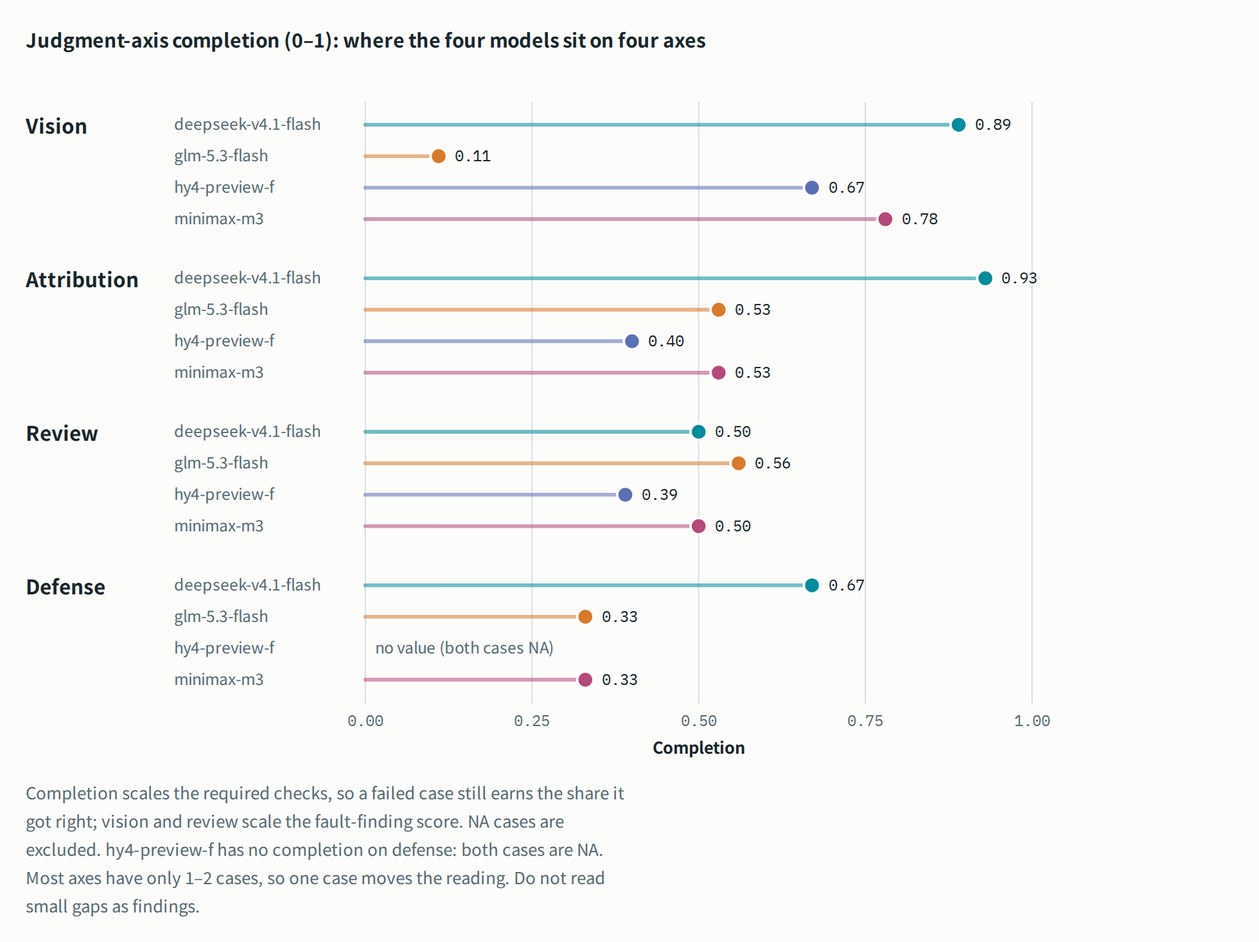
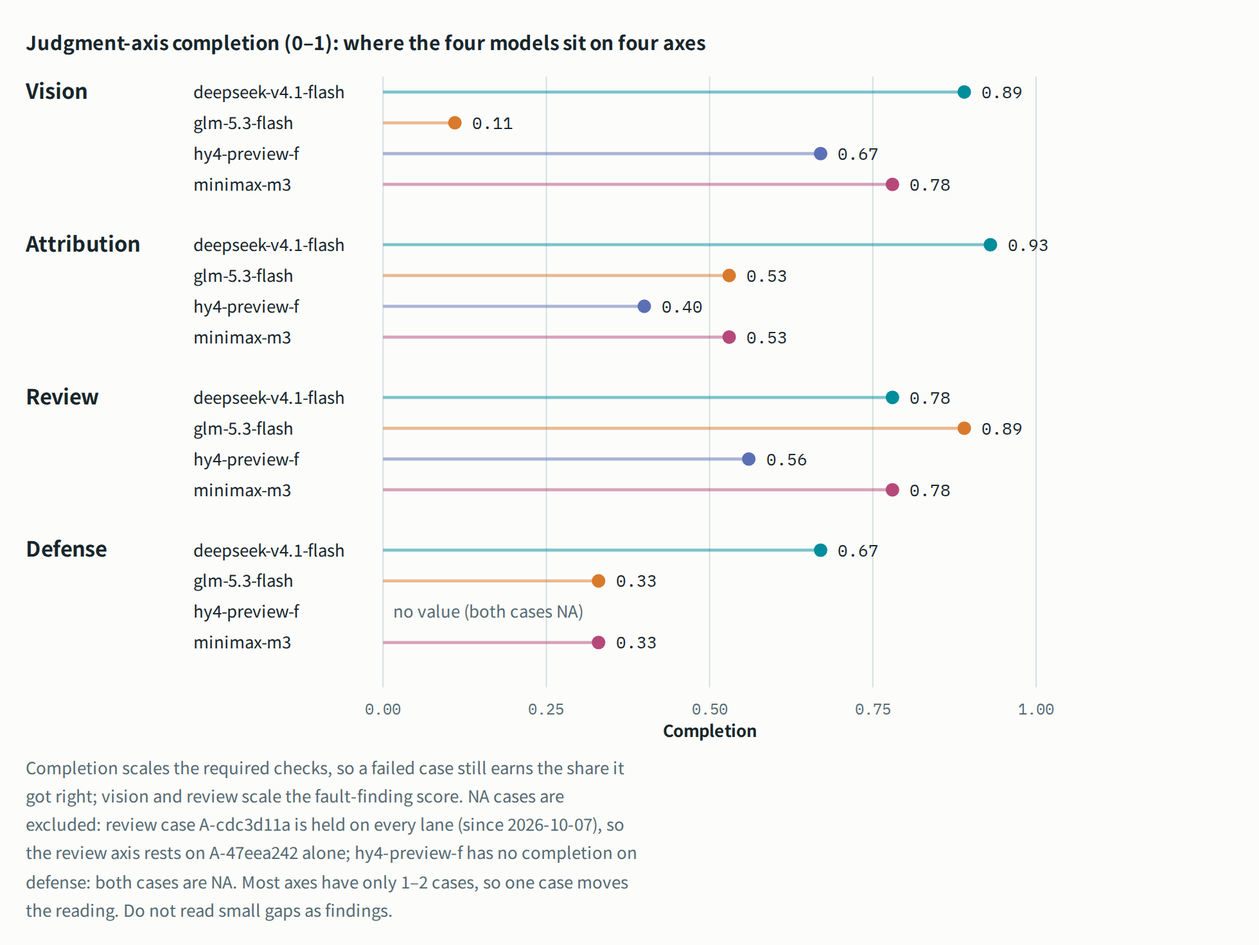
A-cdc3d11a (review) is NA (held) on every lane, including the five WorkBuddy lanes; board totals unchanged
Case A-cdc3d11a moves from a loss to NA (held) on hy4-preview-f (ACP lane, W37) and on the four WorkBuddy direct-lane
models (W40); denominator stays 24, pass counts unchanged. W40 wins/losses/NA: deepseek-v4.1-flash 18/4/2 -> 18/3/3,
glm-5.3-flash 17/5/2 -> 17/4/3, hy4-preview-f 16/5/3 -> 16/4/4, minimax-m3 16/6/2 -> 16/5/3; ACP-lane hy4-preview-f
(board) 18/5/1 -> 18/4/2. Review axis now rests on A-47eea242 alone. No sitting is re-run.

- results/2026-W40(.en).md: dated update note added (earlier note stays); matrix and ten-axis block regenerated; summary,
  NA section, exam conditions, findings and verdict updated; strip and completion figures redrawn
- results/2026-W37.md: dated update note (zh + en); hy4-preview-f cell for A-cdc3d11a shows NA with the old mark kept
- README (zh/en): update banner, one-liner, scoreboard review row regenerated, W40 one-minute text, W37 note, index rows;
  divergence figure redrawn (2 all fail, 3 all NA)

diff --git a/results/2026-W40.en.md b/results/2026-W40.en.md
@@ -2,22 +2,24 @@
 
 > **Update 2026-10-05**: minimax-m3's brand case (A-d9b79b46) changed from a loss to NA (on hold), matching the other three lanes. The pass count is unchanged (16), losses go 7→6 and NA 1→2, and the total stays 16'/24. See "NA cells and special cases" below.
 
+> **Update 2026-10-07**: review case A-cdc3d11a is now NA (held) on every lane; the denominator stays 24. On one review case the grader counted every sub-point of a well-formed finding as a separate unproven claim and treated real defects outside its short answer list as false alarms, so a correct, well-formatted review could not reach the passing line; the case is held on every lane, denominator unchanged, until the grader and exam room are repaired and the case is re-sat. All four models on this page had a loss on this cell and now have NA; pass counts are unchanged, and the board totals stay deepseek-v4.1-flash 18'/24 (18 wins · 3 losses · 3 NA), glm-5.3-flash 17'/24 (17 wins · 4 losses · 3 NA), hy4-preview-f 16'/24 (16 wins · 4 losses · 4 NA) and minimax-m3 16'/24 (16 wins · 5 losses · 3 NA). The review axis now has one scored case, A-47eea242. On the whole board the cell moves from a loss to NA on 27 lanes; no sitting is re-run and no model's ability is concluded. See the [amber spec repo correction of 2026-10-07 (A-cdc3d11a)](https://github.com/getaskclaw/amber/blob/main/docs/corrections-2026-10-07-a-cdc3d11a.en.md).
+
 > **From W40 the exam room is isolated.** This issue was taken in a new isolated room (see "Exam conditions" below), so its cells are **not comparable cell by cell with W37 (ACP lane) or W39 (direct-lane sitting)**. The hy4-preview-f result in W37 comes from a different lane (the ACP lane) and is not compared with this issue either. This page does not say that any model got stronger or weaker.
 
 **Summary**: Four models took the full 24-case AMBER library on the WorkBuddy direct lane (`www.workbuddy.ai/v2`), on the same day (2026-10-04, UTC), at the high band, in the same isolated exam room.
 
-- deepseek-v4.1-flash: **18 wins · 4 losses · 2 NA**, shown on the board as 18'/24
-- glm-5.3-flash: **17 wins · 5 losses · 2 NA**, shown on the board as 17'/24
-- hy4-preview-f: **16 wins · 5 losses · 3 NA**, shown on the board as 16'/24
-- minimax-m3: **16 wins · 6 losses · 2 NA**, shown on the board as 16'/24
+- deepseek-v4.1-flash: **18 wins · 3 losses · 3 NA**, shown on the board as 18'/24
+- glm-5.3-flash: **17 wins · 4 losses · 3 NA**, shown on the board as 17'/24
+- hy4-preview-f: **16 wins · 4 losses · 4 NA**, shown on the board as 16'/24
+- minimax-m3: **16 wins · 5 losses · 3 NA**, shown on the board as 16'/24
 
-Two cases are NA on all four lanes: defense case A-d511f9e8 is now NA on **every lane** (the exam-room grading of this case has problems; see the [correction](https://github.com/getaskclaw/amber/blob/main/docs/corrections-2026-10-02-a-d511f9e8.en.md)), and no pass count changes. The other NA cells: the brand case A-d9b79b46 is on hold on all four lanes (the question text and the exam room do not match; every lane takes it again once the text is fixed, the same handling as on 10-02); hy4-preview-f timed out on A-be92627f, which is NA under the current rule.
+Three cases are NA on all four lanes: defense case A-d511f9e8 is now NA on **every lane** (the exam-room grading of this case has problems; see the [correction](https://github.com/getaskclaw/amber/blob/main/docs/corrections-2026-10-02-a-d511f9e8.en.md)), and no pass count changes; the brand case A-d9b79b46 is on hold on all four lanes (the question text and the exam room do not match; every lane takes it again once the text is fixed, the same handling as on 10-02); and review case A-cdc3d11a is held on every lane (2026-10-07; see the update above and "NA cells and special cases"). In addition, hy4-preview-f timed out on A-be92627f, which is NA under the current rule.
 
 The vision case (A-ea80d793) had an extra step. In the first sitting the exam room's image preprocessing request was rejected by the API, so none of the four candidates saw the picture. After the room was fixed, only this one cell was re-taken, and the table shows the re-take: deepseek-v4.1-flash and minimax-m3 passed; hy4-preview-f saw the picture but did not pass; glm-5.3-flash does not accept image input on this channel and did not pass.
 
 deepseek-v4.1-flash here is a new W40 sitting. The W39 sitting (corrected to 13'/24; the correction notice stays and refers to that W39 sitting) was taken in a different exam room, and the two are not compared. hy4-preview-f has two rows on the board: the ACP lane (W37) and the direct lane (W40). They are different lanes in different exam rooms.
 
-![W40 case by case: four direct-lane models](assets/2026-W40-strip.en.png?v=20261005)
+![W40 case by case: four direct-lane models](assets/2026-W40-strip.en.png?v=20261007)
 
 中文：[2026-W40.md](2026-W40.md)
 
@@ -30,6 +32,7 @@ deepseek-v4.1-flash here is a new W40 sitting. The W39 sitting (corrected to 13'
 - **Vision case (vision axis, A-ea80d793)**: in the first sitting the room's image preprocessing request was rejected by the API, so the candidates on all four lanes did not see the picture. The owner approved a room fix (the image is sent to the model together with the main request), and only this cell was re-taken. Re-take results: deepseek-v4.1-flash and minimax-m3 passed; hy4-preview-f saw the picture but did not pass; glm-5.3-flash does not accept image input on this channel and did not pass. The table uses the re-take result.
 - **Brand case (UI axis, A-d9b79b46)**: NA (on hold) on all four lanes, following the 10-02 precedent: the question text and the exam room do not match, and every lane takes it again once the text is fixed. minimax-m3 was first recorded as a loss on this case and was changed to NA on 2026-10-05; see "NA cells and special cases".
 - **minimax-m3 make-up**: its main sitting was stopped midway by the room driver (the "zero traffic" protection fired on the vision case). The 9 missing cases were taken the same day under the same conditions and are recorded in the same sitting.
+- **Review case (review axis, A-cdc3d11a)**: NA (held) on every lane since 2026-10-07, the same on all four lanes; see "NA cells and special cases".
 - **Timeouts**: NA under the current rule.
 - **Defense case A-d511f9e8**: NA (on hold) on every lane, the same on all four.
 
@@ -84,9 +87,9 @@ Cases are listed by public alias; check them against the [amber hash-index](http
 | A-d511f9e8 | Defense | f725082a2dc8 | ⊘ NA (held, re-sit pending) | ⊘ NA (held, re-sit pending) | ⊘ NA (held, re-sit pending) | ⊘ NA (held, re-sit pending) |
 | A-be92627f | Defense | 6593829abdfa | ⊘ NA (invalid) | ✗ 6/9 | ✗ 3/9 | ✗ 3/9 |
 | A-a317e74b | Attribution | e05970e7d7c9 | ✗ 6/15 | ✗ 14/15 | ✗ 8/15 | ✗ 8/15 |
-| A-cdc3d11a | Review | dbb207a3118d | ✗ fault-finding −2 | ✗ fault-finding −2 | ✗ fault-finding −2 | ✗ fault-finding −2 |
+| A-cdc3d11a | Review | dbb207a3118d | ⊘ NA (held, re-sit pending) | ⊘ NA (held, re-sit pending) | ⊘ NA (held, re-sit pending) | ⊘ NA (held, re-sit pending) |
 | A-47eea242 | Review | b4b8d4bb44e3 | ✗ fault-finding 1 | ✓ fault-finding 3 | ✓ fault-finding 4 | ✓ fault-finding 3 |
-| **total** | | | **16/24 wins · 5 losses · 3 NA** | **18/24 wins · 4 losses · 2 NA** | **17/24 wins · 5 losses · 2 NA** | **16/24 wins · 6 losses · 2 NA** |
+| **total** | | | **16/24 wins · 4 losses · 4 NA** | **18/24 wins · 3 losses · 3 NA** | **17/24 wins · 4 losses · 3 NA** | **16/24 wins · 5 losses · 3 NA** |
 
 <!-- matrix:end -->
 
@@ -94,12 +97,13 @@ Cases are listed by public alias; check them against the [amber hash-index](http
 
 - **A-d511f9e8 (defense)**: NA for all four models. This case is NA on every lane (the exam room graded something other than the file the candidate delivered, and the grader asks for something the task text does not say). The denominator and the number of passed cases do not change, and every lane's total carries `'`. "held, re-sit pending" in the table is the generated table's standard wording for "held"; whether there is a re-sit is announced separately; see the [correction notice](https://github.com/getaskclaw/amber/blob/main/docs/corrections-2026-10-02-a-d511f9e8.en.md). glm-5.3-flash also timed out on this case in this sitting. The bundle hash shown for this case is `f725082a2dc8`, the pre-re-forge hash recorded in the hash-index footnote, which differs from the index's current row; the case is on hold in this issue, so no score depends on it.
 - **A-d9b79b46 (UI, brand case)**: NA (on hold) on all four lanes. The task text describes a ready working environment, but this case is a text-only task without tools, so the text and the room do not match, and the text does not say how to label files in a text delivery. deepseek-v4.1-flash, glm-5.3-flash and hy4-preview-f delivered no files; minimax-m3 pasted both files and a root-cause note in its reply, but the file names were only in comments inside the code blocks, so the room extracted nothing. **minimax-m3 was first recorded as a loss on this case and was changed to NA (on hold) on 2026-10-05**, the same handling as the other three lanes; the pass count is unchanged (16), losses go 7→6 and NA 1→2. Every lane takes this case again once the text is fixed.
+- **A-cdc3d11a (review)**: NA (held) for all four models. On one review case the grader counted every sub-point of a well-formed finding as a separate unproven claim and treated real defects outside its short answer list as false alarms, so a correct, well-formatted review could not reach the passing line; the case is held on every lane, denominator unchanged, until the grader and exam room are repaired and the case is re-sat. The four models on this page had a loss on this cell (fault-finding score −2 each) and were changed to NA on 2026-10-07; pass counts are unchanged, and each has one loss fewer and one NA more (hy4-preview-f 5→4 losses, 3→4 NA; deepseek-v4.1-flash 4→3, 2→3; glm-5.3-flash 5→4, 2→3; minimax-m3 6→5, 2→3). The review axis now has one scored case, A-47eea242. No sitting is re-run and no model's ability is concluded. See the [amber spec repo correction of 2026-10-07 (A-cdc3d11a)](https://github.com/getaskclaw/amber/blob/main/docs/corrections-2026-10-07-a-cdc3d11a.en.md).
 - **A-be92627f (defense)**: hy4-preview-f timed out; under the current rule this is NA and counts as neither win nor loss. The other three answered and are scored as losses.
 - **A-ea80d793 (vision)**: the table shows the re-take (after the room fix, with the image sent together with the main request). The first-sitting score is not used, because the candidates did not see the picture.
 
 ## Ten-axis summary
 
-![Judgment-axis completion: where the four models sit on vision, attribution, review and defense](assets/2026-W40-completion.en.png?v=20261004)
+![Judgment-axis completion: where the four models sit on vision, attribution, review and defense](assets/2026-W40-completion.en.png?v=20261007)
 
 <!-- axes:start -->
 
@@ -114,7 +118,7 @@ Cases are listed by public alias; check them against the [amber hash-index](http
 |  | Vision | 0/1 | 0.67 | 1/1 | 0.89 | 0/1 | 0.11 | 1/1 | 0.78 |
 |  | Defense | 0/2 · 2 NA | — | 0/2 · 1 NA | 0.67 | 0/2 · 1 NA | 0.33 | 0/2 · 1 NA | 0.33 |
 |  | Attribution | 0/1 | 0.40 | 0/1 | 0.93 | 0/1 | 0.53 | 0/1 | 0.53 |
-|  | Review | 0/2 | 0.39 | 1/2 | 0.50 | 1/2 | 0.56 | 1/2 | 0.50 |
+|  | Review | 0/2 · 1 NA | 0.56 | 1/2 · 1 NA | 0.78 | 1/2 · 1 NA | 0.89 | 1/2 · 1 NA | 0.78 |
 | | **total** | **16'/24** |  | **18'/24** |  | **17'/24** |  | **16'/24** |  |
 
 Two readings of the same papers. **Passes** = cases passed / cases on the axis; a case passes only when every required check passes. This is the [askclaw.dev](https://askclaw.dev/en/rank/) board metric. **Completion** = 0–1, prorated by required checks, so a failed case still earns the share it got right; review and vision are prorated from the fault-finding score. NA cases count in neither. Most axes hold one or two cases, so one case can move the reading.
@@ -126,7 +130,7 @@ Two readings of the same papers. **Passes** = cases passed / cases on the axis; 
 1. **The four models are very close on the build side.** Coding 5/6, delivery 3/3 and requirements 1/1 are the same for all four; on coding case A-87c472cb all four scored 6/8 and none passed. Ops is 6/6 for three of them and 5/6 for minimax-m3 (A-a5608487 missed by one check, 4/5).
 2. **Only minimax-m3 failed the convergence case A-3f2a9cdd**; the other three passed.
 3. **Vision case, one re-take: two passed, two did not.** deepseek-v4.1-flash (fault-finding score 4) and minimax-m3 (3) passed; hy4-preview-f saw the picture, scored 2 and did not pass; glm-5.3-flash does not accept image input on this channel, scored −3 and did not pass.
-4. **Review is still the weak side.** A-cdc3d11a is a loss for all four (fault-finding score −2 each). On A-47eea242 only hy4-preview-f did not pass (score 1); the other three passed (deepseek-v4.1-flash 3, glm-5.3-flash 4, minimax-m3 3).
+4. **Review:** A-cdc3d11a is held (NA) on every lane since 2026-10-07, so the review axis now has one scored case, A-47eea242: only hy4-preview-f did not pass (score 1); the other three passed (deepseek-v4.1-flash 3, glm-5.3-flash 4, minimax-m3 3).
 5. **Nobody passed attribution case A-a317e74b**, but the distance differs a lot: deepseek-v4.1-flash 14/15, one check short; glm-5.3-flash and minimax-m3 8/15 each; hy4-preview-f 6/15. On defense case A-be92627f: deepseek-v4.1-flash 6/9, glm-5.3-flash and minimax-m3 3/9 each, hy4-preview-f timed out (NA).
 6. **All of this is a snapshot of one try per case.** Most axes hold only one or two cases, so one case can move a reading. This page does not compare them with other issues or other exam rooms.
 
@@ -136,7 +140,7 @@ Two readings of the same papers. **Passes** = cases passed / cases on the axis; 
 - The first vision sitting was not scored because of the room: the image preprocessing request was rejected by the API. The fix was to send the image to the model with the main request, and only this cell was re-taken; the other cases were not re-taken.
 - Timed-out papers (hy4-preview-f on A-be92627f; glm-5.3-flash on A-d511f9e8, which is NA anyway through the all-lane hold) are NA under the current rule, not losses.
 - After minimax-m3's main sitting was stopped by the room driver, the 9 missing cases were taken the same day under the same conditions and are recorded in the same sitting.
-- hy4-preview-f has two lanes in this repo: the ACP lane (W37; the board shows 18'/24, which includes the convergence case that was added later and counts A-d511f9e8 as NA with the all-lane hold; the W37 page was written on the basis of that time and says 17/23) and this issue's direct lane (W40, 16'/24). The channel and the room are both different, so the two rows are not compared.
+- hy4-preview-f has two lanes in this repo: the ACP lane (W37; the board shows 18'/24, which includes the convergence case that was added later and counts A-d511f9e8 and A-cdc3d11a as NA with the all-lane holds; the W37 page was written on the basis of that time and says 17/23) and this issue's direct lane (W40, 16'/24). The channel and the room are both different, so the two rows are not compared.
 - Wire verification covers the request side only (model id and endpoint in the usage records).
 - Publishing rules: transcripts, oracles and candidate workspaces are never published.
 
@@ -145,8 +149,8 @@ Two readings of the same papers. **Passes** = cases passed / cases on the axis; 
 On the direct lane in the isolated room, the four models are almost the same on the build side (coding, delivery, ops, requirements); the differences are in the judgment side: the vision re-take, review and attribution.
 
 - **deepseek-v4.1-flash**: 18'/24, the highest of the four, no timeouts; 4 on the vision re-take, and 14/15 on attribution case A-a317e74b, one check short.
-- **glm-5.3-flash**: 17'/24; one of two review cases passed; this channel does not accept image input, so the vision case did not pass.
-- **hy4-preview-f**: 16'/24 with 3 NA (2 on defense, 1 on UI); it saw the picture but did not pass, and did not pass review case A-47eea242.
+- **glm-5.3-flash**: 17'/24; it passed review case A-47eea242 (the other review case, A-cdc3d11a, is held); this channel does not accept image input, so the vision case did not pass.
+- **hy4-preview-f**: 16'/24 with 4 NA (2 on defense, 1 on UI, 1 on review); it saw the picture but did not pass, and did not pass review case A-47eea242.
 - **minimax-m3**: 16'/24, the most losses (6); it did not pass the convergence case, missed ops case A-a5608487 by one check, and its brand case is NA (on hold).
 
 This page gives no cross-issue verdict on strength.

diff --git a/results/2026-W40.md b/results/2026-W40.md
@@ -2,22 +2,24 @@
 
 > **2026-10-05 更新**：minimax-m3 的品牌题（A-d9b79b46）由「负」改记 NA（挂起），与另外三条道一致；过案数不变（16），负案 7→6，NA 1→2，总分仍是 16'/24。原因见下「NA 与特殊记法」。
 
+> **2026-10-07 更新**：审查案 A-cdc3d11a 在所有车道上改记 NA（挂起），分母仍是 24。在一道审查案上，判分器把一条格式正确的发现里的每个子点都算作一条各自未被证实的断言，又把短答案清单之外的真实缺陷当作误报，所以一份正确、格式良好的审查达不到及格线；这一案在所有车道上挂起，分母不变，等判分器和考场修复、重新考试之后再定。本页四个模型这一格原来都是负，现在都是 NA；过案数不变，榜上总分仍是 deepseek-v4.1-flash 18'/24（18 胜 · 3 负 · 3 NA）、glm-5.3-flash 17'/24（17 胜 · 4 负 · 3 NA）、hy4-preview-f 16'/24（16 胜 · 4 负 · 4 NA）、minimax-m3 16'/24（16 胜 · 5 负 · 3 NA）。审查轴现在只有 A-47eea242 一案计分。这一案在全榜有 27 条道由负改记 NA；没有重考任何卷，也不据此判断任何模型的能力。见[规范仓 2026-10-07 的更正（A-cdc3d11a）](https://github.com/getaskclaw/amber/blob/main/docs/corrections-2026-10-07-a-cdc3d11a.md)。
+
 > **W40 起换隔离考场**：本期在新的隔离考场里考（见下「考试条件」），所以本期的各格**不能和 W37（ACP 道）、W39（直连场次）的各格逐格对比**；hy4-preview-f 的 W37 成绩来自另一条道（ACP 道），也不拿来和本期对比。本页不据此说哪个模型变强或变弱。
 
 **中文摘要**：四个模型在 WorkBuddy 直连道（`www.workbuddy.ai/v2`）、同一天（2026-10-04，UTC）、high 档、同一个隔离考场里考全库 24 案。
 
-- deepseek-v4.1-flash：**18 胜 · 4 负 · 2 NA**，榜上记 18'/24
-- glm-5.3-flash：**17 胜 · 5 负 · 2 NA**，榜上记 17'/24
-- hy4-preview-f：**16 胜 · 5 负 · 3 NA**，榜上记 16'/24
-- minimax-m3：**16 胜 · 6 负 · 2 NA**，榜上记 16'/24
+- deepseek-v4.1-flash：**18 胜 · 3 负 · 3 NA**，榜上记 18'/24
+- glm-5.3-flash：**17 胜 · 4 负 · 3 NA**，榜上记 17'/24
+- hy4-preview-f：**16 胜 · 4 负 · 4 NA**，榜上记 16'/24
+- minimax-m3：**16 胜 · 5 负 · 3 NA**，榜上记 16'/24
 
-两案在四条道上都是 NA：防御案 A-d511f9e8 在**所有车道**上改记 NA（考场判分有问题，见[更正声明](https://github.com/getaskclaw/amber/blob/main/docs/corrections-2026-10-02-a-d511f9e8.md)），过案数不变。其余 NA：品牌题 A-d9b79b46 在四条道上都挂起（题面与考场不一致，题面修好后全体重考，沿用 10-02 的同一处理）；hy4-preview-f 的 A-be92627f 超时，按现行规则记 NA。详见下方各节。
+三案在四条道上都是 NA：防御案 A-d511f9e8 在**所有车道**上改记 NA（考场判分有问题，见[更正声明](https://github.com/getaskclaw/amber/blob/main/docs/corrections-2026-10-02-a-d511f9e8.md)），过案数不变；品牌题 A-d9b79b46 在四条道上都挂起（题面与考场不一致，题面修好后全体重考，沿用 10-02 的同一处理）；审查案 A-cdc3d11a 在所有车道上挂起（2026-10-07，见上方更新和下「NA 与特殊记法」）。另外 hy4-preview-f 的 A-be92627f 超时，按现行规则记 NA。详见下方各节。
 
 看图案（A-ea80d793）这一格有一段插曲：首考时考场的图片预处理请求被接口拒绝，四个模型都没看到图；考场修好后只重考了这一格，表里这一格是重考的成绩（deepseek-v4.1-flash、minimax-m3 过；hy4-preview-f 看到图但没过；glm-5.3-flash 在这个通道不接受图片输入，没过）。
 
 本期的 deepseek-v4.1-flash 是 W40 的新场次，与 W39 那一场（已更正为 13'/24，更正声明保留，说的是 W39 那一场）是两场不同考场的考试，不并列比较。hy4-preview-f 在榜上有两行：ACP 道（W37）和直连道（W40），是两条不同的道、不同的考场。
 
-![W40 逐案对照：四个直连道模型](assets/2026-W40-strip.zh.png?v=20261005)
+![W40 逐案对照：四个直连道模型](assets/2026-W40-strip.zh.png?v=20261007)
 
 English: [2026-W40.en.md](2026-W40.en.md)
 
@@ -30,6 +32,7 @@ English: [2026-W40.en.md](2026-W40.en.md)
 - **看图案（视觉轴，A-ea80d793）**：首考时考场的图片预处理请求被接口拒绝，四条道的考生都没看到图。owner 批准修考场（图片随主请求直送模型）后，只重考这一格。重考结果：deepseek-v4.1-flash、minimax-m3 通过；hy4-preview-f 看到图但没过；glm-5.3-flash 在这个通道不接受图片输入，没过。表里这一格取重考成绩。
 - **品牌题（UI 轴，A-d9b79b46）**：四条道都沿用 10-02 的先例记 NA（挂起）：题面与考场不一致，题面修好后全体重考。minimax-m3 这一案最初记负，2026-10-05 改记 NA，见「NA 与特殊记法」。
 - **minimax-m3 补考**：主场中途被考场驱动中止（看图案上的「零流量」保护触发）。缺的 9 案当天在同样条件下补考，记在同一场里。
+- **审查案（审查轴，A-cdc3d11a）**：2026-10-07 起在所有车道上记 NA（挂起），四条道一致，见「NA 与特殊记法」。
 - **超时**：按现行规则记 NA。
 - **防御案 A-d511f9e8**：所有车道上都记 NA（挂起），四条道一致。
 
@@ -84,9 +87,9 @@ English: [2026-W40.en.md](2026-W40.en.md)
 | A-d511f9e8 | 防御 | f725082a2dc8 | ⊘ NA（挂起待补考） | ⊘ NA（挂起待补考） | ⊘ NA（挂起待补考） | ⊘ NA（挂起待补考） |
 | A-be92627f | 防御 | 6593829abdfa | ⊘ NA（无效） | ✗ 6/9 | ✗ 3/9 | ✗ 3/9 |
 | A-a317e74b | 归因 | e05970e7d7c9 | ✗ 6/15 | ✗ 14/15 | ✗ 8/15 | ✗ 8/15 |
-| A-cdc3d11a | 审查 | dbb207a3118d | ✗ 找茬分 −2 | ✗ 找茬分 −2 | ✗ 找茬分 −2 | ✗ 找茬分 −2 |
+| A-cdc3d11a | 审查 | dbb207a3118d | ⊘ NA（挂起待补考） | ⊘ NA（挂起待补考） | ⊘ NA（挂起待补考） | ⊘ NA（挂起待补考） |
 | A-47eea242 | 审查 | b4b8d4bb44e3 | ✗ 找茬分 1 | ✓ 找茬分 3 | ✓ 找茬分 4 | ✓ 找茬分 3 |
-| **合计** | | | **16/24 胜 · 5 负 · 3 NA** | **18/24 胜 · 4 负 · 2 NA** | **17/24 胜 · 5 负 · 2 NA** | **16/24 胜 · 6 负 · 2 NA** |
+| **合计** | | | **16/24 胜 · 4 负 · 4 NA** | **18/24 胜 · 3 负 · 3 NA** | **17/24 胜 · 4 负 · 3 NA** | **16/24 胜 · 5 负 · 3 NA** |
 
 <!-- matrix:end -->
 
@@ -94,12 +97,13 @@ English: [2026-W40.en.md](2026-W40.en.md)
 
 - **A-d511f9e8（防御）**：四个模型都是 NA。这一案在所有车道上改记 NA（考场判的不是考生交付的文件，判分还要求了题面没写的事），分母不变，过案数不变，每条道总分都带 `'`；表里的「挂起待补考」是生成表对「挂起」的统一写法，是否重考另行公告，见[更正声明](https://github.com/getaskclaw/amber/blob/main/docs/corrections-2026-10-02-a-d511f9e8.md)。glm-5.3-flash 在这一案本场也超时。表里这一案的 bundle 哈希是 `f725082a2dc8`，即哈希索引脚注记录的该案换版前哈希，与索引现行行不同；该案本期已挂起，不影响任何分数。
 - **A-d9b79b46（UI，品牌题）**：四条道都记 NA（挂起）。题面描述了可操作的工作环境，但这一案是不给工具的纯文本题，题面与考场不一致，也没有规定文本交付时怎样标注文件名。deepseek-v4.1-flash、glm-5.3-flash、hy4-preview-f 三位考生没有交出文件；minimax-m3 在回复里贴出了两份文件全文和根因说明，但文件名只写在代码块内的注释里，考场没有提取到任何文件。**minimax-m3 这一格最初记负，2026-10-05 改记 NA（挂起）**，与另外三条道同一处理，过案数不变（16），负案 7→6、NA 1→2。题面修好后所有车道重考这一案。
+- **A-cdc3d11a（审查）**：四个模型都是 NA（挂起）。在一道审查案上，判分器把一条格式正确的发现里的每个子点都算作一条各自未被证实的断言，又把短答案清单之外的真实缺陷当作误报，所以一份正确、格式良好的审查达不到及格线；这一案在所有车道上挂起，分母不变，等判分器和考场修复、重新考试之后再定。本页四个模型这一格原来都是负（找茬分都是 −2），2026-10-07 改记 NA；过案数不变，各自负案少 1、NA 多 1（hy4-preview-f 5→4 负、3→4 NA；deepseek-v4.1-flash 4→3、2→3；glm-5.3-flash 5→4、2→3；minimax-m3 6→5、2→3）。审查轴现在只有 A-47eea242 一案计分。没有重考任何卷，也不据此判断任何模型的能力。见[规范仓 2026-10-07 的更正（A-cdc3d11a）](https://github.com/getaskclaw/amber/blob/main/docs/corrections-2026-10-07-a-cdc3d11a.md)。
 - **A-be92627f（防御）**：hy4-preview-f 超时，按现行规则记 NA，不计胜负。其余三位在这一案有作答，按得分判负。
 - **A-ea80d793（视觉）**：表里取重考成绩（考场修好、图片随主请求直送之后）。首考的成绩不用，因为考生没有看到图。
 
 ## 十轴小结
 
-![判断面完成度：视觉、归因、审查、防御四条轴上四个模型的位置](assets/2026-W40-completion.zh.png?v=20261004)
+![判断面完成度：视觉、归因、审查、防御四条轴上四个模型的位置](assets/2026-W40-completion.zh.png?v=20261007)
 
 <!-- axes:start -->
 
@@ -114,7 +118,7 @@ English: [2026-W40.en.md](2026-W40.en.md)
 |  | 视觉 | 0/1 | 0.67 | 1/1 | 0.89 | 0/1 | 0.11 | 1/1 | 0.78 |
 |  | 防御 | 0/2 · 2 NA | — | 0/2 · 1 NA | 0.67 | 0/2 · 1 NA | 0.33 | 0/2 · 1 NA | 0.33 |
 |  | 归因 | 0/1 | 0.40 | 0/1 | 0.93 | 0/1 | 0.53 | 0/1 | 0.53 |
-|  | 审查 | 0/2 | 0.39 | 1/2 | 0.50 | 1/2 | 0.56 | 1/2 | 0.50 |
+|  | 审查 | 0/2 · 1 NA | 0.56 | 1/2 · 1 NA | 0.78 | 1/2 · 1 NA | 0.89 | 1/2 · 1 NA | 0.78 |
 | | **合计** | **16'/24** |  | **18'/24** |  | **17'/24** |  | **16'/24** |  |
 
 两种读法，同一批卷：**通过** = 通过案数/该轴案数，必检项全过才算过，[askclaw.dev](https://askclaw.dev/rank/) 榜单用这个；**完成度** = 0–1，按必检项折算，挂掉的案也按做对的比例记分，审查和视觉按找茬分折算。NA 的案两种读法都不计。多数轴只有 1–2 案，一案就能改变该轴读数。
@@ -126,7 +130,7 @@ English: [2026-W40.en.md](2026-W40.en.md)
 1. **执行面四个模型高度一致。** 编码 5/6、交付 3/3、需求 1/1 四者相同；编码案 A-87c472cb 四者都是 6/8，没有一个过。运维三者 6/6，minimax-m3 5/6（A-a5608487 差 1 项，4/5）。
 2. **收敛案 A-3f2a9cdd 只有 minimax-m3 没过**，其余三者都过。
 3. **看图案：同一场重考，两过两没过。** deepseek-v4.1-flash（找茬分 4）、minimax-m3（找茬分 3）过；hy4-preview-f 看到了图，找茬分 2，没过；glm-5.3-flash 在这个通道不接受图片输入，找茬分 −3，没过。
-4. **审查面仍然偏弱。** A-cdc3d11a 四者都负（找茬分都是 −2）；A-47eea242 只有 hy4-preview-f 没过（找茬分 1），其余三者过（deepseek-v4.1-flash 3、glm-5.3-flash 4、minimax-m3 3）。
+4. **审查面：** A-cdc3d11a 在所有车道上挂起（NA，2026-10-07 起），审查轴现在只有 A-47eea242 一案计分：只有 hy4-preview-f 没过（找茬分 1），其余三者过（deepseek-v4.1-flash 3、glm-5.3-flash 4、minimax-m3 3）。
 5. **归因案 A-a317e74b 四者都没过**，但差距很大：deepseek-v4.1-flash 14/15，只差 1 项；glm-5.3-flash 与 minimax-m3 都是 8/15；hy4-preview-f 6/15。防御案 A-be92627f：deepseek-v4.1-flash 6/9，glm-5.3-flash 与 minimax-m3 都是 3/9，hy4-preview-f 超时 NA。
 6. **以上都是单次作答的快照**，多数轴只有 1–2 案，一案就能改变读数；本页没有拿它们和别的期、别的考场比。
 
@@ -136,7 +140,7 @@ English: [2026-W40.en.md](2026-W40.en.md)
 - 看图案首考没有计分，原因在考场：图片预处理请求被接口拒绝。改法是让图片随主请求直送模型，只重考这一格；其余各案没有重考。
 - 超时的卷（hy4-preview-f 的 A-be92627f；glm-5.3-flash 的 A-d511f9e8，后者已随全车道挂起记 NA）按现行规则记 NA，不计负。
 - minimax-m3 的主场被考场驱动中止后，缺的 9 案当天在同样条件下补考，记在同一场。
-- hy4-preview-f 在这个仓里有两条道：ACP 道（W37，榜上记 18'/24，含后来补测的收敛案，防御案 A-d511f9e8 随全车道挂起记 NA；当期 W37 页面按当时口径写 17/23）和本期的直连道（W40，16'/24）。通道和考场都不同，两行不并列比较。
+- hy4-preview-f 在这个仓里有两条道：ACP 道（W37，榜上记 18'/24，含后来补测的收敛案，防御案 A-d511f9e8 和审查案 A-cdc3d11a 随全车道挂起记 NA；当期 W37 页面按当时口径写 17/23）和本期的直连道（W40，16'/24）。通道和考场都不同，两行不并列比较。
 - wire verification 只做了请求侧核对（用量记录里的模型 id 与端点）。
 - 发布纪律：transcript、oracle、考生工作区都不公开。
 
@@ -145,8 +149,8 @@ English: [2026-W40.en.md](2026-W40.en.md)
 四个模型在隔离考场里的直连道上，执行面（编码、交付、运维、需求）几乎一致，差别集中在判断面：看图案重考、审查、归因。
 
 - **deepseek-v4.1-flash**：18'/24，四者最高，没有超时；看图案重考 4 分，归因 A-a317e74b 14/15 只差 1 项。
-- **glm-5.3-flash**：17'/24；审查两案过一案；这个通道不接受图片输入，看图案没过。
-- **hy4-preview-f**：16'/24，3 个 NA（防御 2、UI 1）；看到图但没过，审查 A-47eea242 没过。
+- **glm-5.3-flash**：17'/24；审查 A-47eea242 过（另一审查案 A-cdc3d11a 挂起）；这个通道不接受图片输入，看图案没过。
+- **hy4-preview-f**：16'/24，4 个 NA（防御 2、UI 1、审查 1）；看到图但没过，审查 A-47eea242 没过。
 - **minimax-m3**：16'/24，负案最多（6 个）；收敛案没过，运维 A-a5608487 差 1 项；品牌题记 NA（挂起）。
 
 本页不给跨期的强弱结论。

diff --git a/README.en.md b/README.en.md
@@ -8,9 +8,11 @@
 
 > **From W40 the exam room is isolated**: from 2026-W40 the exams in this repo are taken in an isolated room, so W40 cells cannot be compared cell by cell with W37 or W39 (see the [2026-W40 issue](results/2026-W40.en.md)).
 
+> **2026-10-07 update**: review case A-cdc3d11a is now NA (held) on every lane; the denominator stays 24: on one review case the grader counted every sub-point of a well-formed finding as a separate unproven claim and treated real defects outside its short answer list as false alarms, so a correct, well-formatted review could not reach the passing line; the case is held on every lane, denominator unchanged, until the grader and exam room are repaired and the case is re-sat. The five lanes in this repo (the four direct-lane models plus hy4-preview-f on the ACP lane) all had a loss on this cell and now have NA; pass counts are unchanged (direct lane: deepseek-v4.1-flash 18'/24, glm-5.3-flash 17'/24, hy4-preview-f 16'/24, minimax-m3 16'/24; ACP lane: hy4-preview-f 18'/24). On the whole board the cell moves from a loss to NA on 27 lanes; no sitting is re-run and no model's ability is concluded. See the [amber spec repo correction of 2026-10-07 (A-cdc3d11a)](https://github.com/getaskclaw/amber/blob/main/docs/corrections-2026-10-07-a-cdc3d11a.en.md), the [2026-W40 issue](results/2026-W40.en.md) and the [2026-W37 issue](results/2026-W37.md).
+
 Running the private **AMBER** benchmark against models on WorkBuddy (CodeBuddy). Results are public; questions are not. There are two channels so far: the ACP lane (the ACP mode of Tencent's CodeBuddy CLI, with a server-pushed model catalog; W37) and the direct lane (`www.workbuddy.ai/v2`; W39 and W40).
 
-> **In one line**: four models on the WorkBuddy direct lane each took the same 24 field tasks in the isolated W40 exam room, and passed **deepseek-v4.1-flash 18'/24 · glm-5.3-flash 17'/24 · hy4-preview-f 16'/24 · minimax-m3 16'/24**. The four are almost the same on the hands-on tasks (coding, delivery, ops, requirements); they differ on the judgment tasks (vision, review, attribution).
+> **In one line**: four models on the WorkBuddy direct lane each took the same 24 field tasks in the isolated W40 exam room, and passed **deepseek-v4.1-flash 18'/24 · glm-5.3-flash 17'/24 · hy4-preview-f 16'/24 · minimax-m3 16'/24**. The four are almost the same on the hands-on tasks (coding, delivery, ops, requirements); they differ on the judgment tasks (vision, review, attribution; one review case has been held, not scored, since 2026-10-07).
 >
 > A `'` after a score means some cases are NA: not counted as a pass or a fail. The reason for each NA is in the issue. hy4-preview-f has two rows on the board: the ACP lane (W37) and the direct lane (W40). They are different lanes in different exam rooms, so they are not compared, and this page does not say the model got stronger or weaker.
 
@@ -29,7 +31,7 @@ Running the private **AMBER** benchmark against models on WorkBuddy (CodeBuddy).
 |  | Vision | Spot defects in screenshots | 1/1 | 0/1 | 0/1 | 1/1 | 0/1 |
 |  | Defense | Plug every hole in the validator | 0/2 · 1 NA | 0/2 · 1 NA | 0/2 · 2 NA | 0/2 · 1 NA | 0/2 · 1 NA |
 |  | Attribution | Pin defects to their root cause | 0/1 | 0/1 | 0/1 | 0/1 | 0/1 |
-|  | Review | Inspect someone else's work | 1/2 | 1/2 | 0/2 | 1/2 | 1/2 |
+|  | Review | Inspect someone else's work | 1/2 · 1 NA | 1/2 · 1 NA | 0/2 · 1 NA | 1/2 · 1 NA | 1/2 · 1 NA |
 |  | **Total** |  | **18'/24** | **17'/24** | **16'/24** | **16'/24** | **18'/24** |
 
 Each cell = cases passed / cases on that axis (a case is one scored task). NA = the case was voided or put on hold; it counts as neither a pass nor a fail, and a total carrying `'` has at least one NA. Most axes hold only 1–2 cases, so one case moves the reading: do not over-read small gaps. Sittings are from different weeks; every number is a snapshot.
@@ -49,15 +51,15 @@ The W37 column is the ACP-lane hy4-preview-f; W40 is the direct lane in the isol
 
 ## W40 in one minute
 
-![W40 divergence: the 5 of 24 cases where the four direct-lane models differ](results/assets/2026-W40-diff.en.png?v=20261005)
+![W40 divergence: the 5 of 24 cases where the four direct-lane models differ](results/assets/2026-W40-diff.en.png?v=20261007)
 
-Same direct lane, same day (2026-10-04, UTC), high band, same isolated exam room, same 24 cases and hashes: **deepseek-v4.1-flash 18'/24, glm-5.3-flash 17'/24, hy4-preview-f 16'/24, minimax-m3 16'/24**. On the vision case (A-ea80d793) the room's image request was rejected in the first sitting; after the room fix only that cell was re-taken. The brand case A-d9b79b46 and the defense case A-d511f9e8 are on hold (NA) on all four lanes. The per-case matrix, the exam conditions and the explanation of each NA are in the [2026-W40 issue](results/2026-W40.en.md). The other 19 cases have the same result for all four: 14 all pass, 3 all fail (A-87c472cb, A-a317e74b, A-cdc3d11a), 2 all NA (A-d511f9e8, A-d9b79b46). The full 24-case matrix is in the issue.
+Same direct lane, same day (2026-10-04, UTC), high band, same isolated exam room, same 24 cases and hashes: **deepseek-v4.1-flash 18'/24, glm-5.3-flash 17'/24, hy4-preview-f 16'/24, minimax-m3 16'/24**. On the vision case (A-ea80d793) the room's image request was rejected in the first sitting; after the room fix only that cell was re-taken. The brand case A-d9b79b46, the defense case A-d511f9e8 and, since 2026-10-07, the review case A-cdc3d11a are on hold (NA) on all four lanes. The per-case matrix, the exam conditions and the explanation of each NA are in the [2026-W40 issue](results/2026-W40.en.md). The other 19 cases have the same result for all four: 14 all pass, 2 all fail (A-87c472cb, A-a317e74b), 3 all NA (A-d511f9e8, A-d9b79b46, A-cdc3d11a). The full 24-case matrix is in the issue.
 
 ## W37 in one minute
 
 Same ACP lane, same high band, same 23 cases and hashes: **hy4-preview-f 17/23** (build 5/6 + OPS 6/6 sweep + ui-build 12/12), **deepseek-v4.1-flash 15/23** (A-be92627f 9/9 — first-ever pass on that case; second verify-face pass overall). Per-case matrix and lane ledger in the [2026-W37 issue](results/2026-W37.md).
 
-The W37 numbers above use the issue's own count (23 cases). The "Scoreboard" above counts this ACP-lane hy4-preview-f row as 18'/24 on the current library: the 17/23 plus the convergence case that was added later and passed, with defense case A-d511f9e8 as NA through the all-lane hold. W37 and W40 differ in channel and exam room, so they are not compared cell by cell.
+The W37 numbers above use the issue's own count (23 cases). The "Scoreboard" above counts this ACP-lane hy4-preview-f row as 18'/24 on the current library: the 17/23 plus the convergence case that was added later and passed, with defense case A-d511f9e8 and review case A-cdc3d11a as NA through the all-lane holds. W37 and W40 differ in channel and exam room, so they are not compared cell by cell.
 
 ## Publishing rules (red lines)
 
@@ -77,9 +79,9 @@ Same model name, same provider, two runs can still differ — sampling parameter
 |---|---|---|---|
 | [2026-W40](results/2026-W40.en.md) | **deepseek-v4.1-flash** (WorkBuddy direct) | **18'/24** | Highest of the four, no timeouts; passed the vision re-take; attribution A-a317e74b 14/15, one check short |
 | [2026-W40](results/2026-W40.en.md) | glm-5.3-flash (WorkBuddy direct) | **17'/24** | Passed review A-47eea242 (fault-finding 4); this channel does not accept image input, vision case not passed |
-| [2026-W40](results/2026-W40.en.md) | hy4-preview-f (WorkBuddy direct) | **16'/24** | 3 NA (2 defense, 1 UI); saw the picture but did not pass the vision case; a different lane from the W37 ACP row, not compared |
+| [2026-W40](results/2026-W40.en.md) | hy4-preview-f (WorkBuddy direct) | **16'/24** | 4 NA (2 defense, 1 UI, 1 review); saw the picture but did not pass the vision case; a different lane from the W37 ACP row, not compared |
 | [2026-W40](results/2026-W40.en.md) | minimax-m3 (WorkBuddy direct) | **16'/24** | Most losses (6); did not pass the convergence case; brand case NA (on hold; changed from a loss to NA on 2026-10-05); 9 missing cases made up the same day |
-| [2026-W37](results/2026-W37.md) | **hy4-preview-f** (x0.00 free tier) | **17/23** (15/21) | Second-tier entry on debut; OPS 6/6 sweep + ui-build 12/12; verify 0/3, review/vision still fail |
+| [2026-W37](results/2026-W37.md) | **hy4-preview-f** (x0.00 free tier) | **17/23** (15/21) | Second-tier entry on debut; OPS 6/6 sweep + ui-build 12/12; verify 0/3, vision still fails; review case A-cdc3d11a held (NA) since 2026-10-07 |
 | [2026-W37](results/2026-W37.md) | deepseek-v4.1-flash (x0.00 free tier) | **15/23** (13/21) | A-be92627f 9/9 = first-ever pass on that case (second verify-face pass overall); one case below its official-GA sibling with swapped structure |
 | [2026-W38 correction notice](results/2026-W38-correction.en.md) | W38 full-library review: 0 cells reversed · 1 held here | 1 W37 hy4 vision cell held |
 

diff --git a/results/2026-W37.md b/results/2026-W37.md
@@ -1,5 +1,9 @@
 # 2026-W37 — WorkBuddy(CodeBuddy)ACP 车道首考：hy4-preview-f 17/23、deepseek-v4.1-flash 15/23
 
+> **2026-10-07 更新**：审查案 A-cdc3d11a 在所有车道上改记 NA（挂起），分母仍是 24。在一道审查案上，判分器把一条格式正确的发现里的每个子点都算作一条各自未被证实的断言，又把短答案清单之外的真实缺陷当作误报，所以一份正确、格式良好的审查达不到及格线；这一案在所有车道上挂起，分母不变，等判分器和考场修复、重新考试之后再定。本页 hy4-preview-f（ACP 道）这一格原来是负，现在记 NA（挂起），下方矩阵该格保留原记法（「更新前记 ✗ -1.0」）；过案数不变：本页 23 案口径仍是 17/23，榜上按现行库记 18'/24，由 18 胜 · 5 负 · 1 NA 改为 18 胜 · 4 负 · 2 NA。本页其余两列（ACP 道的 deepseek-v4.1-flash 和官方 GA 对照列）本次未改动，保持原发布时的记法；正文里说这一案「挂」的句子是当时的记述，没有改。没有重考任何卷，也不据此判断任何模型的能力。见[规范仓 2026-10-07 的更正（A-cdc3d11a）](https://github.com/getaskclaw/amber/blob/main/docs/corrections-2026-10-07-a-cdc3d11a.md)。
+
+> **Update 2026-10-07**: review case A-cdc3d11a is now NA (held) on every lane; the denominator stays 24. On one review case the grader counted every sub-point of a well-formed finding as a separate unproven claim and treated real defects outside its short answer list as false alarms, so a correct, well-formatted review could not reach the passing line; the case is held on every lane, denominator unchanged, until the grader and exam room are repaired and the case is re-sat. On this page the hy4-preview-f (ACP lane) cell was a loss and is now NA (held); the matrix below keeps the old mark inside the cell ("更新前记 ✗ -1.0", i.e. a loss before this update). The pass count is unchanged: 17/23 on this page's 23-case count, and 18'/24 on the board, which goes from 18 wins · 5 losses · 1 NA to 18 wins · 4 losses · 2 NA. The other two columns on this page (deepseek-v4.1-flash on the ACP lane, and the official-GA reference column) are not changed here and keep the marks as originally published; sentences in the text that call this case a fail describe it as it stood then and are not edited. No sitting is re-run and no model's ability is concluded. See the [amber spec repo correction of 2026-10-07 (A-cdc3d11a)](https://github.com/getaskclaw/amber/blob/main/docs/corrections-2026-10-07-a-cdc3d11a.en.md).
+
 **中文摘要**：WorkBuddy(CodeBuddy)ACP 车道首考，考生是目录内两款免费档模型（x0.00 倍率窗口至 2026-09-25）。**hy4-preview-f 17/23**（公共 21 案子集 15/21）——入档即抵已发布成绩榜的第二梯队（与 ollama glm-5.3-flash 17、CommandCode 道 deepseek-flash 17 同分），签名强项是施工面 5/6（含硬区分器 A-442d4aab 7/7 与 A-569dbe0d 10/10）+ OPS 面 6/6 全清 + UI 搭建案 A-d9b79b46 **12/12 满分交付**（全场第 10 个过案席位、第 6 个不同模型）。**deepseek-v4.1-flash 15/23**（13/21）——同脑不同道：比同周官方 GA 道（16/23）低一案，但在核验案 A-be92627f 交出 **9/9 满分**——**该案史上首个过案**（核验面史上第二席——首席是 crof qwen3.8-27b 的 A-a317e74b 15/15,W36），此前全部已发布条目在该案最高 8/9。失分面依旧诚实：两模型的审查对抗案（A-cdc3d11a）与视觉审图案（A-ea80d793）均挂，hy4 的 A-a317e74b 主跑撞帽后补考落地 14/15（并列该案已发布第二高分，详 Harness notes）。车道特征账：effort 语义走 ACP `set_config_option` 侧通道钉入（CLI `--effort` argv 旗标实证为空转），token 用量不回传，以墙钟代替。
 
 ---
@@ -52,7 +56,7 @@ Case handles are stable public aliases（red line 4）；hashes 对照 amber 公
 | A-a317e74b | verify | e05970e7d7c9 | ✗ 9/15 | ✗ 14/15² | ✗ 7/15 |
 | A-a5608487 | ops | bcfac8de9f29 | ✓ 5/5 | ✓ 5/5 | ✓ 5/5 |
 | A-be92627f | verify | 6593829abdfa | **✓ 9/9** | ✗ 3/9 | ✗ 4/9 |
-| A-cdc3d11a | review | dbb207a3118d | ✗ -2.0 | ✗ -1.0 | ✗ -4 |
+| A-cdc3d11a | review | dbb207a3118d | ✗ -2.0 | ⊘ NA（挂起；更新前记 ✗ -1.0） | ✗ -4 |
 | A-d511f9e8 | verify | f725082a2dc8 | ✗ 4/12 | ✗ 4/12 | ✗ 4/12 |
 | A-d9b79b46 | ui-build | d6d63130ecc6 | ✗ 未交付 | **✓ 12/12** | ✗ 未交付 |
 | A-ea80d793 | vision | 1d69841b029e | ✗ -2（0/5）¹ | ✗ -1.0（1/5）¹ | ✗ -2（0/5） |
